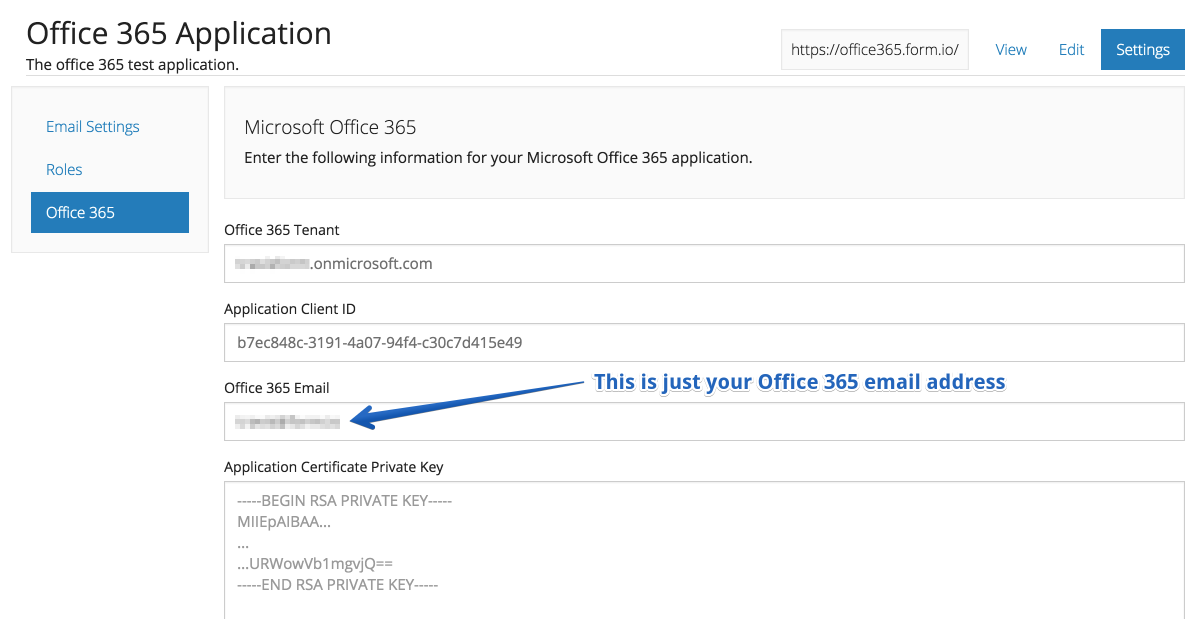
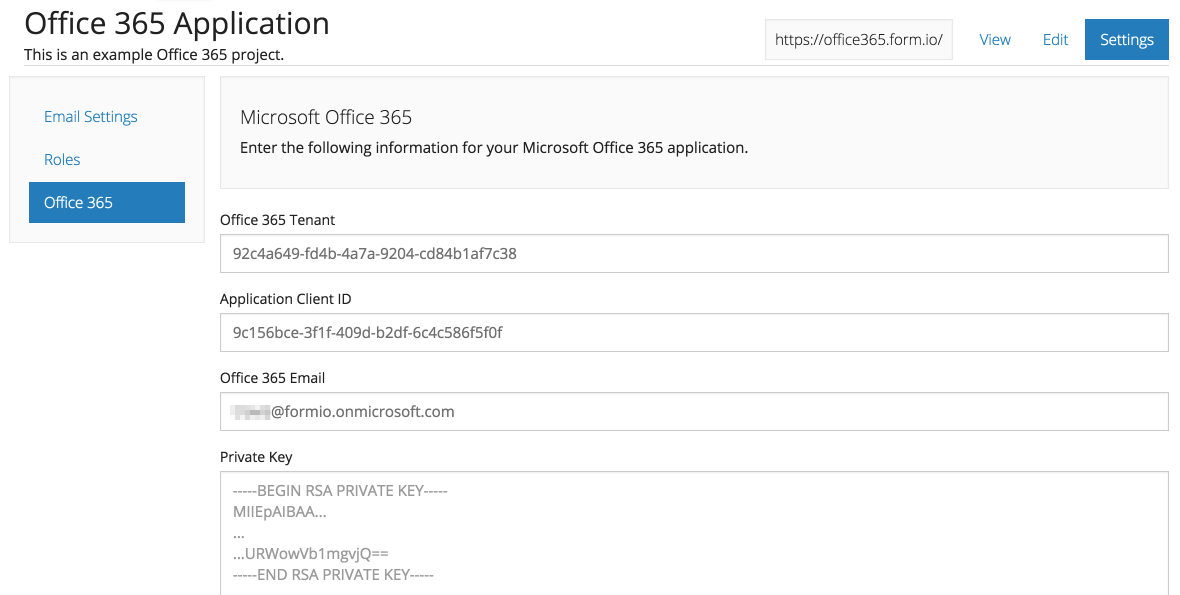
Fixing the Office 365 integration help.

diff --git a/_chapters/integrations/office365.md b/_chapters/integrations/office365.md
@@ -214,7 +214,13 @@ mechanism. To get your project working with Microsoft Office 365, please walk th
 
       ![](/assets/img/office365/formio-o365-settings.png)
 
-    - Next, you will need to specify your Tenant ID, Client ID, which can be found on your Azure project page as follows.
+    - Next, you will need to specify your Tenant ID, which can be found by clicking on **View Endpoints** and then look at the ID provided in the urls.
+
+      ![](/assets/img/office365/formio-o365-view-endpoints.png)
+
+      ![](/assets/img/office365/formio-o365-tennant-id.png)
+
+    - Next, you will need to specify your Client ID, which can be found on your Azure project page as follows.
 
       ![](/assets/img/office365/formio-o365-tennant-client.png)
 
